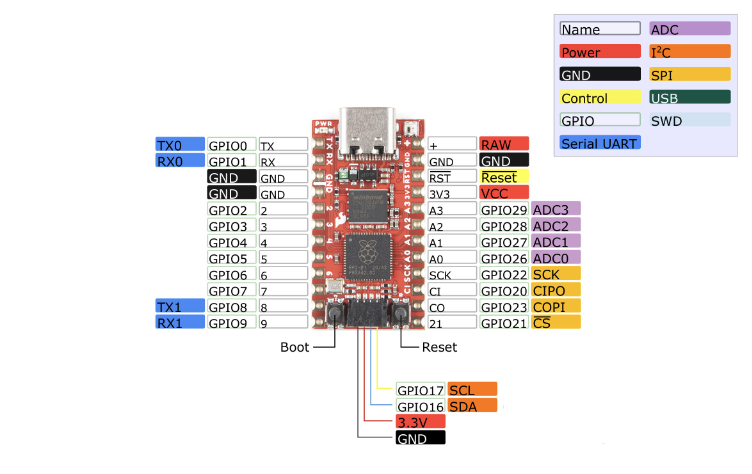
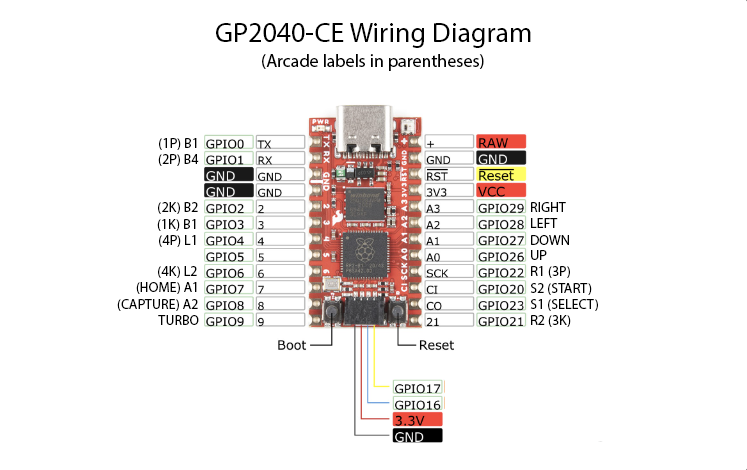
Update README

Changed region(s): [[0.1539, 0.2383, 0.8005, 0.9532], [0.2771, 0.0298, 0.9853, 0.3574]]

diff --git a/configs/SparkFunProMicro/README.md b/configs/SparkFunProMicro/README.md
@@ -3,3 +3,5 @@
 ![Pin Mapping](assets/SparkFunProMicroRP2040.png)
 
 Basic pin setup for a stock [Sparkfun Pro Micro - RP2040](https://www.sparkfun.com/products/18288).
+
+The pin layout is designed to be a drop in replacement for the [Daemonbite Arcade encoder](https://github.com/MickGyver/DaemonBite-Arcade-Encoder).